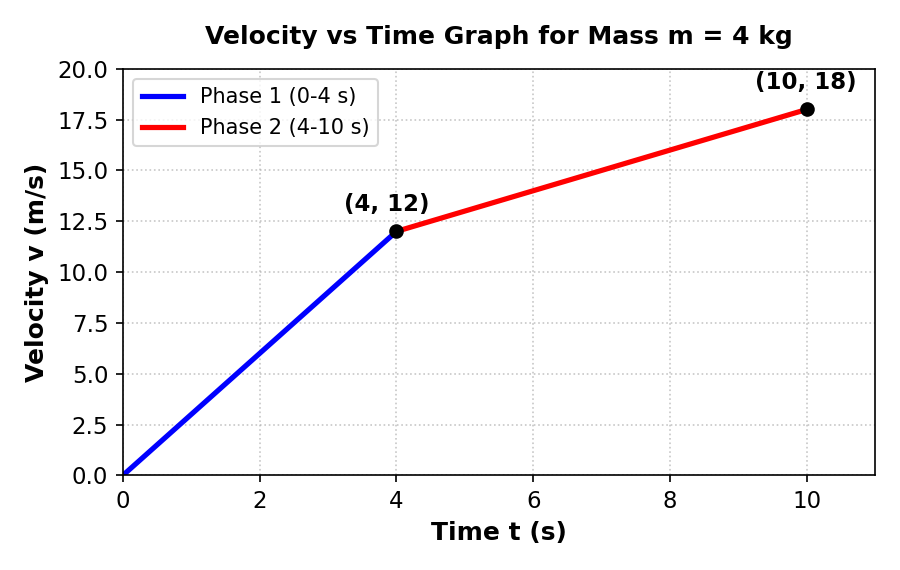
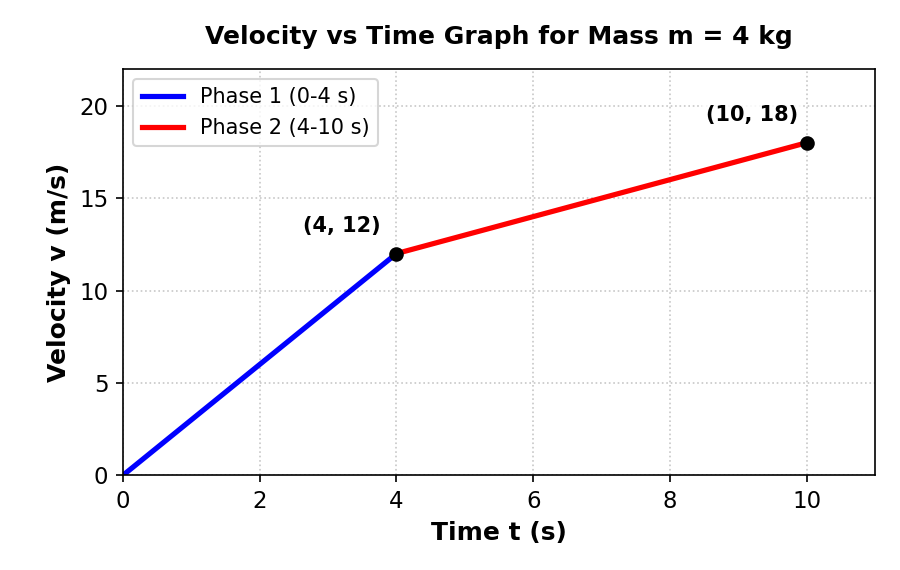
Update and deploy

diff --git a/tools/generate_all_quiz_diagrams.py b/tools/generate_all_quiz_diagrams.py
@@ -9,6 +9,11 @@ os.makedirs(output_dir, exist_ok=True)
 plt.rcParams['font.family'] = 'DejaVu Sans'
 plt.rcParams['font.size'] = 11
 
+def add_label_box(ax, text, x, y, color='black', fontsize=10, fontweight='bold', ha='center', va='center', rotation=0):
+    ax.text(x, y, text, color=color, fontsize=fontsize, fontweight=fontweight,
+            ha=ha, va=va, rotation=rotation, zorder=10,
+            bbox=dict(boxstyle='round,pad=0.2', facecolor='white', edgecolor='none', alpha=0.85))
+
 def draw_incline_block(ax, s0, w, h, theta_deg, color='skyblue', ec='blue', label=''):
     theta = np.radians(theta_deg)
     # Bottom-left corner along incline
@@ -50,10 +55,10 @@ def create_ch3_5_q5():
     ax.legend(fontsize=11)
     
     ax.plot(3, 12, 'bo', markersize=7)
-    ax.annotate('(3, 12)', (3, 12), textcoords="offset points", xytext=(-20,10), ha='center', fontsize=10, color='blue', fontweight='bold')
+    add_label_box(ax, '(3, 12)', 3, 13.5, color='blue', fontsize=10)
     
     ax.plot(4, 8, 'ro', markersize=7)
-    ax.annotate('(4, 8)', (4, 8), textcoords="offset points", xytext=(15,-15), ha='center', fontsize=10, color='red', fontweight='bold')
+    add_label_box(ax, '(4, 8)', 4, 6.5, color='red', fontsize=10)
     
     plt.tight_layout()
     plt.savefig(os.path.join(output_dir, 'phy_m4_ch3-5_q5.png'), dpi=150)
@@ -76,7 +81,7 @@ def create_ch3_5_q7():
     # Angle arc
     arc = patches.Arc((0, 0), 1.4, 1.4, angle=0, theta1=0, theta2=theta_deg, color='darkgreen', lw=1.5)
     ax.add_patch(arc)
-    ax.text(0.9, 0.25, r'$\theta = 37^\circ$', fontsize=11, color='darkgreen', fontweight='bold')
+    add_label_box(ax, r'$\theta = 37^\circ$', 0.9, 0.25, color='darkgreen', fontsize=11)
     
     # Block flush on incline
     s0 = L * 0.55
@@ -86,7 +91,7 @@ def create_ch3_5_q7():
     # Gravity mg arrow from CM
     ax.annotate('', xy=(x_cm, y_cm - 1.2), xytext=(x_cm, y_cm),
                 arrowprops=dict(arrowstyle="->", color="crimson", lw=2.5))
-    ax.text(x_cm + 0.15, y_cm - 0.9, 'mg = 50 N', color='crimson', fontweight='bold', fontsize=10)
+    add_label_box(ax, 'mg = 50 N', x_cm + 0.6, y_cm - 0.8, color='crimson', fontsize=10)
     
     # Friction f_k arrow UP the incline (block sliding down)
     fx_start = s0 * np.cos(theta)
@@ -96,9 +101,9 @@ def create_ch3_5_q7():
     
     ax.annotate('', xy=(fx_end, fy_end), xytext=(fx_start, fy_start),
                 arrowprops=dict(arrowstyle="->", color="darkorange", lw=2.5))
-    ax.text(fx_end - 0.2, fy_end + 0.3, r'$f_k$', color='darkorange', fontweight='bold', fontsize=12)
+    add_label_box(ax, r'$f_k$', fx_end - 0.1, fy_end + 0.35, color='darkorange', fontsize=12)
     
-    ax.set_xlim(-0.5, xb + 0.5)
+    ax.set_xlim(-0.5, xb + 0.8)
     ax.set_ylim(-1.5, yb + 0.8)
     plt.tight_layout()
     plt.savefig(os.path.join(output_dir, 'phy_m4_ch3-5_q7.png'), dpi=150)
@@ -118,12 +123,10 @@ def create_ch3_5_q14():
     ax.plot(F_kinetic, f_kinetic, 'g-', linewidth=2.5, label='Kinetic Region')
     
     ax.plot(30, 30, 'ro', markersize=7)
-    ax.annotate(r'$f_{s,max} = 30\text{ N}$', (30, 30), textcoords="offset points", xytext=(-35, 10),
-                fontsize=10, color='red', fontweight='bold')
+    add_label_box(ax, r'$f_{s,max} = 30\text{ N}$', 22, 33, color='red', fontsize=10)
     
     ax.plot(45, 20, 'go', markersize=7)
-    ax.annotate(r'$f_k = 20\text{ N}$', (45, 20), textcoords="offset points", xytext=(10, 10),
-                fontsize=10, color='green', fontweight='bold')
+    add_label_box(ax, r'$f_k = 20\text{ N}$', 52, 23, color='green', fontsize=10)
     
     ax.set_xlabel('Applied Force F (N)', fontsize=12, fontweight='bold')
     ax.set_ylabel('Friction Force f (N)', fontsize=12, fontweight='bold')
@@ -181,10 +184,10 @@ def create_ch3_5_q19():
     ax.add_patch(b1)
     ax.text(1.7, 2.3, r'$m_1=4\text{kg}$', ha='center', va='center', fontweight='bold', fontsize=10)
     
-    # Pulley mounted at top-right corner of table
-    R_p = 0.25
-    p_center_x = 4.0 + R_p
-    p_center_y = 2.0 + R_p
+    # Pulley geometry: Top tangent MUST be at height y = 2.0 + h1/2 = 2.3 to make string 100% HORIZONTAL!
+    R_p = 0.2
+    p_center_y = 2.0 + (h1 / 2.0) - R_p # 2.1
+    p_center_x = 4.0 + R_p # 4.2
     
     # Pulley bracket from table edge
     ax.plot([4.0, p_center_x], [2.0, p_center_y], 'k-', lw=2.5)
@@ -192,15 +195,15 @@ def create_ch3_5_q19():
     ax.add_patch(pulley)
     ax.plot(p_center_x, p_center_y, 'ko', markersize=3, zorder=5)
     
-    # Horizontal rope from m1 to top of pulley
-    rope_h_y = 2.0 + h1 / 2.0 # 2.3
-    ax.plot([1.2 + w1, p_center_x], [rope_h_y, p_center_y + R_p], 'k-', lw=2)
+    # 100% PERFECTLY HORIZONTAL ROPE at height y = 2.3
+    rope_h_y = 2.0 + (h1 / 2.0) # 2.3
+    ax.plot([1.2 + w1, p_center_x], [rope_h_y, rope_h_y], 'k-', lw=2)
     
-    # Vertical rope from right of pulley to hanging block m2
-    rope_v_x = p_center_x + R_p # 4.5
+    # Single vertical rope from right edge of pulley (x = 4.2 + 0.2 = 4.4) to hanging block m2
+    rope_v_x = p_center_x + R_p # 4.4
     ax.plot([rope_v_x, rope_v_x], [p_center_y, 1.2], 'k-', lw=2)
     
-    # Hanging block m2 centered horizontally at rope_v_x
+    # Hanging block m2 centered horizontally at x = 4.4 (well to the right of table edge x = 4.0)
     w2, h2 = 0.7, 0.8
     b2 = patches.Rectangle((rope_v_x - w2/2.0, 0.4), w2, h2, color='sandybrown', ec='chocolate', lw=2)
     ax.add_patch(b2)
@@ -227,26 +230,26 @@ def create_ch3_5_q21():
     ax.plot([0, xb, xb, 0], [0, 0, yb, 0], 'k-', lw=2.5)
     arc = patches.Arc((0,0), 1.2, 1.2, angle=0, theta1=0, theta2=30, color='darkgreen', lw=1.5)
     ax.add_patch(arc)
-    ax.text(0.8, 0.2, r'$30^\circ$', fontsize=10, fontweight='bold', color='darkgreen')
+    add_label_box(ax, r'$30^\circ$', 0.8, 0.2, color='darkgreen', fontsize=10)
     
     # Block flush on incline
     s0 = L * 0.5
     w1, h1 = 1.0, 0.6
     x_cm, y_cm = draw_incline_block(ax, s0, w1, h1, theta_deg, color='lightgreen', ec='green', label=r'$m_1=6\text{kg}$')
     
-    # Pulley mounted at apex
+    # Pulley geometry: Top tangent MUST lie at height h1/2 above incline line to be 100% PARALLEL!
     R_p = 0.25
-    # Pulley center offset along incline normal & tangent
-    p_cx = xb + R_p * np.cos(theta)
-    p_cy = yb + R_p * np.sin(theta)
+    # Tangent line along incline at height h1/2 = 0.3
+    # Pulley center vector offset along incline tangent & normal
+    p_cx = xb + (h1 / 2.0 - R_p) * (-np.sin(theta)) + R_p * np.cos(theta)
+    p_cy = yb + (h1 / 2.0 - R_p) * (np.cos(theta)) + R_p * np.sin(theta)
     
-    # Axle bracket from apex
     ax.plot([xb, p_cx], [yb, p_cy], 'k-', lw=2.5)
     pulley = patches.Circle((p_cx, p_cy), R_p, color='lightgray', ec='black', lw=2, zorder=4)
     ax.add_patch(pulley)
     ax.plot(p_cx, p_cy, 'ko', markersize=3, zorder=5)
     
-    # Single string along incline (parallel to incline) from right face of m1 to top of pulley
+    # 100% PERFECTLY PARALLEL ROPE along incline
     rope_start_x = (s0 + w1 / 2.0) * np.cos(theta) - (h1 / 2.0) * np.sin(theta)
     rope_start_y = (s0 + w1 / 2.0) * np.sin(theta) + (h1 / 2.0) * np.cos(theta)
     
@@ -254,8 +257,8 @@ def create_ch3_5_q21():
     rope_p_top_y = p_cy + R_p * np.cos(theta)
     ax.plot([rope_start_x, rope_p_top_x], [rope_start_y, rope_p_top_y], 'k-', lw=2)
     
-    # Single vertical string from right edge of pulley to top of m2
-    rope_v_x = p_cx + R_p # 4.15 + 0.25 = 4.40
+    # Vertical rope from right edge of pulley
+    rope_v_x = p_cx + R_p
     ax.plot([rope_v_x, rope_v_x], [p_cy, yb - 0.7], 'k-', lw=2)
     
     # Hanging block m2 centered horizontally at rope_v_x
@@ -290,12 +293,12 @@ def create_ch3_5_q23():
     
     ax.annotate('', xy=(fx, fy), xytext=(2.7, 1.4),
                 arrowprops=dict(arrowstyle="->", color="crimson", lw=2.5))
-    ax.text(fx + 0.1, fy + 0.1, 'F = 50 N', color='crimson', fontweight='bold', fontsize=11)
+    add_label_box(ax, 'F = 50 N', fx + 0.3, fy + 0.1, color='crimson', fontsize=11)
     
     ax.plot([2.7, 4.3], [1.4, 1.4], 'k--', lw=1.2)
     arc = patches.Arc((2.7, 1.4), 1.0, 1.0, angle=0, theta1=0, theta2=37, color='darkgreen', lw=1.5)
     ax.add_patch(arc)
-    ax.text(3.4, 1.55, r'$37^\circ$', fontsize=10, color='darkgreen', fontweight='bold')
+    add_label_box(ax, r'$37^\circ$', 3.4, 1.55, color='darkgreen', fontsize=10)
     
     ax.set_xlim(0, 5.5)
     ax.set_ylim(0.5, 3.2)
@@ -316,15 +319,15 @@ def create_ch3_5_q29():
     
     ax.annotate('', xy=(2.4, 0), xytext=(0.25, 0),
                 arrowprops=dict(arrowstyle="->", color="red", lw=2.5))
-    ax.text(2.5, 0.1, r'$F_1 = 12\text{ N}$', color='red', fontweight='bold', fontsize=10)
+    add_label_box(ax, r'$F_1 = 12\text{ N}$', 2.2, 0.4, color='red', fontsize=10)
     
     ax.annotate('', xy=(0, 1.5), xytext=(0, 0.25),
                 arrowprops=dict(arrowstyle="->", color="blue", lw=2.5))
-    ax.text(0.1, 1.6, r'$F_2 = 5\text{ N}$', color='blue', fontweight='bold', fontsize=10)
+    add_label_box(ax, r'$F_2 = 5\text{ N}$', 0.6, 1.5, color='blue', fontsize=10)
     
     ax.annotate('', xy=(-0.9, 0), xytext=(-0.25, 0),
                 arrowprops=dict(arrowstyle="->", color="green", lw=2.5))
-    ax.text(-1.8, 0.1, r'$F_3 = 3\text{ N}$', color='green', fontweight='bold', fontsize=10)
+    add_label_box(ax, r'$F_3 = 3\text{ N}$', -1.2, 0.4, color='green', fontsize=10)
     
     ax.set_xlim(-2.2, 3.2)
     ax.set_ylim(-1.0, 2.2)
@@ -355,13 +358,13 @@ def create_ch3_6_q2():
         ax.plot(rp, fp, 'ro', markersize=6)
         ax.plot([rp, rp], [0, fp], 'k:', alpha=0.5)
         ax.plot([0, rp], [fp, fp], 'k:', alpha=0.5)
-        ax.annotate(lbl, (rp, fp), textcoords="offset points", xytext=(15, 8), ha='left', fontsize=10, color='darkred', fontweight='bold')
+        add_label_box(ax, lbl, rp + 0.4, fp + 5, color='darkred', fontsize=10)
 
     ax.set_xlabel('Distance r (in terms of R)', fontsize=12, fontweight='bold')
     ax.set_ylabel('Gravitational Force F_g', fontsize=12, fontweight='bold')
     ax.set_title('Gravitational Force vs Distance Graph', fontsize=13, fontweight='bold', pad=12)
     ax.set_xlim(0, 5.2)
-    ax.set_ylim(0, 110)
+    ax.set_ylim(0, 115)
     ax.grid(True, linestyle=':', alpha=0.7)
     ax.legend(fontsize=11)
     
@@ -383,18 +386,18 @@ def create_ch3_6_q6():
     
     sat = patches.Rectangle((-0.2, 2.35), 0.4, 0.3, color='orange', ec='darkred', lw=1.5)
     ax.add_patch(sat)
-    ax.text(0, 2.8, 'Satellite (m)', ha='center', fontweight='bold', fontsize=10, color='darkred')
+    add_label_box(ax, 'Satellite (m)', 0, 2.85, color='darkred', fontsize=10)
     
     ax.annotate('', xy=(0, 1.3), xytext=(0, 2.35),
                 arrowprops=dict(arrowstyle="->", color="crimson", lw=2.5))
-    ax.text(0.15, 1.8, r'$F_g = G\frac{Mm}{r^2}$', color='crimson', fontweight='bold', fontsize=10)
+    add_label_box(ax, r'$F_g = G\frac{Mm}{r^2}$', 0.6, 1.8, color='crimson', fontsize=10)
     
     ax.annotate('', xy=(-1.2, 2.5), xytext=(-0.2, 2.5),
                 arrowprops=dict(arrowstyle="->", color="green", lw=2.5))
-    ax.text(-1.4, 2.65, r'$v = \sqrt{\frac{GM}{r}}$', color='green', fontweight='bold', fontsize=10)
+    add_label_box(ax, r'$v = \sqrt{\frac{GM}{r}}$', -1.2, 2.9, color='green', fontsize=10)
     
     ax.plot([0, 1.77], [0, 1.77], 'k:', lw=1.2)
-    ax.text(0.9, 0.7, 'r', fontsize=11, fontweight='bold')
+    add_label_box(ax, 'r', 0.9, 0.7, color='black', fontsize=11)
     
     ax.set_xlim(-3.0, 3.0)
     ax.set_ylim(-3.0, 3.2)
@@ -419,15 +422,15 @@ def create_ch3_6_q10():
     
     Px = 4.0
     ax.plot(Px, 0, 'rx', markersize=10, markeredgewidth=2.5)
-    ax.text(Px, 0.35, 'Point P\n(g_net = 0)', color='red', ha='center', fontweight='bold', fontsize=9)
+    add_label_box(ax, 'Point P\n(g_net = 0)', Px, 0.45, color='red', fontsize=9)
     
     ax.annotate('', xy=(Px - 0.8, 0), xytext=(Px, 0),
                 arrowprops=dict(arrowstyle="->", color="blue", lw=2))
-    ax.text(Px - 0.5, -0.4, r'$g_E$', color='blue', fontweight='bold', fontsize=10)
+    add_label_box(ax, r'$g_E$', Px - 0.4, -0.45, color='blue', fontsize=10)
     
     ax.annotate('', xy=(Px + 0.8, 0), xytext=(Px, 0),
                 arrowprops=dict(arrowstyle="->", color="purple", lw=2))
-    ax.text(Px + 0.3, -0.4, r'$g_M$', color='purple', fontweight='bold', fontsize=10)
+    add_label_box(ax, r'$g_M$', Px + 0.4, -0.45, color='purple', fontsize=10)
     
     ax.set_xlim(-1.2, 6.0)
     ax.set_ylim(-1.0, 1.2)
@@ -448,16 +451,16 @@ def create_ch3_6_q13():
     ax.plot(t2, v2, 'r-', lw=2.5, label='Phase 2 (4-10 s)')
     
     ax.plot(4, 12, 'ko', markersize=6)
-    ax.annotate('(4, 12)', (4, 12), textcoords="offset points", xytext=(-25, 10), fontweight='bold')
+    add_label_box(ax, '(4, 12)', 3.2, 13.5, color='black', fontsize=10)
     
     ax.plot(10, 18, 'ko', markersize=6)
-    ax.annotate('(10, 18)', (10, 18), textcoords="offset points", xytext=(-25, 10), fontweight='bold')
+    add_label_box(ax, '(10, 18)', 9.2, 19.5, color='black', fontsize=10)
     
     ax.set_xlabel('Time t (s)', fontsize=12, fontweight='bold')
     ax.set_ylabel('Velocity v (m/s)', fontsize=12, fontweight='bold')
     ax.set_title('Velocity vs Time Graph for Mass m = 4 kg', fontsize=12, fontweight='bold', pad=12)
     ax.set_xlim(0, 11)
-    ax.set_ylim(0, 20)
+    ax.set_ylim(0, 22)
     ax.grid(True, linestyle=':', alpha=0.7)
     ax.legend(fontsize=10)
     
@@ -476,21 +479,18 @@ def create_ch3_6_q15():
     xb = L * np.cos(theta)
     yb = L * np.sin(theta)
     
-    # Incline triangle
     ax.plot([0, xb, xb, 0], [0, 0, yb, 0], 'k-', lw=2.5)
     arc = patches.Arc((0,0), 1.2, 1.2, angle=0, theta1=0, theta2=37, color='darkgreen', lw=1.5)
     ax.add_patch(arc)
-    ax.text(0.8, 0.25, r'$37^\circ$', fontsize=10, fontweight='bold', color='darkgreen')
+    add_label_box(ax, r'$37^\circ$', 0.8, 0.25, color='darkgreen', fontsize=10)
     
-    # Block flush on incline
     s0 = L * 0.5
     w1, h1 = 1.0, 0.6
     x_cm, y_cm = draw_incline_block(ax, s0, w1, h1, theta_deg, color='plum', ec='purple', label=r'$m_1=4\text{kg}$')
     
-    # Pulley mounted at apex
     R_p = 0.25
-    p_cx = xb + R_p * np.cos(theta)
-    p_cy = yb + R_p * np.sin(theta)
+    p_cx = xb + (h1 / 2.0 - R_p) * (-np.sin(theta)) + R_p * np.cos(theta)
+    p_cy = yb + (h1 / 2.0 - R_p) * (np.cos(theta)) + R_p * np.sin(theta)
     
     ax.plot([xb, p_cx], [yb, p_cy], 'k-', lw=2.5)
     pulley = patches.Circle((p_cx, p_cy), R_p, color='lightgray', ec='black', lw=2, zorder=4)
@@ -537,7 +537,7 @@ def create_ch3_6_q18():
     
     ax.annotate('', xy=(4.2, 1.15), xytext=(3.1, 1.15),
                 arrowprops=dict(arrowstyle="->", color="crimson", lw=2.5))
-    ax.text(4.3, 1.15, 'F', color='crimson', fontweight='bold', fontsize=12, va='center')
+    add_label_box(ax, 'F', 4.4, 1.15, color='crimson', fontsize=12)
     
     ax.set_xlim(0, 5.2)
     ax.set_ylim(0.4, 2.5)
@@ -555,25 +555,25 @@ def create_ch3_6_q22():
     ax.plot([1.2, 1.2], [2.0, 0.5], 'k-', lw=2)
     ax.plot([3.8, 3.8], [2.0, 0.5], 'k-', lw=2)
     
-    # Center block m2 on table
     w2, h2 = 1.0, 0.6
     b2 = patches.Rectangle((2.0, 2.0), w2, h2, color='lightgreen', ec='darkgreen', lw=2)
     ax.add_patch(b2)
     ax.text(2.5, 2.3, r'$m_2=5\text{kg}$', ha='center', va='center', fontweight='bold', fontsize=9)
     
     R_p = 0.2
-    rope_h_y = 2.0 + h2 / 2.0 # 2.3
+    rope_h_y = 2.0 + (h2 / 2.0) # 2.3
     
-    # Left pulley at (0.95, 2.2)
-    p_left_x, p_left_y = 1.2 - R_p - 0.05, 2.0 + R_p
+    # Left pulley at (0.95, 2.1)
+    p_left_y = rope_h_y - R_p # 2.1
+    p_left_x = 1.2 - R_p - 0.05
     ax.plot([1.2, p_left_x], [2.0, p_left_y], 'k-', lw=2)
     p_left = patches.Circle((p_left_x, p_left_y), R_p, color='lightgray', ec='black', lw=1.5, zorder=4)
     ax.add_patch(p_left)
     ax.plot(p_left_x, p_left_y, 'ko', markersize=3, zorder=5)
     
-    # Left horizontal rope & vertical rope
-    ax.plot([2.0, p_left_x], [rope_h_y, p_left_y + R_p], 'k-', lw=1.8)
-    rope_l_v_x = p_left_x - R_p # 0.75
+    # 100% PERFECTLY HORIZONTAL ROPE at height y = 2.3
+    ax.plot([2.0, p_left_x], [rope_h_y, rope_h_y], 'k-', lw=1.8)
+    rope_l_v_x = p_left_x - R_p
     ax.plot([rope_l_v_x, rope_l_v_x], [p_left_y, 0.8], 'k-', lw=1.8)
     
     w1, h1 = 0.6, 0.6
@@ -581,16 +581,17 @@ def create_ch3_6_q22():
     ax.add_patch(b1)
     ax.text(rope_l_v_x, 0.5, r'$m_1=2\text{kg}$', ha='center', va='center', fontweight='bold', fontsize=8)
     
-    # Right pulley at (4.05, 2.2)
-    p_right_x, p_right_y = 3.8 + R_p + 0.05, 2.0 + R_p
+    # Right pulley at (4.05, 2.1)
+    p_right_y = rope_h_y - R_p # 2.1
+    p_right_x = 3.8 + R_p + 0.05
     ax.plot([3.8, p_right_x], [2.0, p_right_y], 'k-', lw=2)
     p_right = patches.Circle((p_right_x, p_right_y), R_p, color='lightgray', ec='black', lw=1.5, zorder=4)
     ax.add_patch(p_right)
     ax.plot(p_right_x, p_right_y, 'ko', markersize=3, zorder=5)
     
-    # Right horizontal rope & vertical rope
-    ax.plot([3.0, p_right_x], [rope_h_y, p_right_y + R_p], 'k-', lw=1.8)
-    rope_r_v_x = p_right_x + R_p # 4.25
+    # 100% PERFECTLY HORIZONTAL ROPE at height y = 2.3
+    ax.plot([3.0, p_right_x], [rope_h_y, rope_h_y], 'k-', lw=1.8)
+    rope_r_v_x = p_right_x + R_p
     ax.plot([rope_r_v_x, rope_r_v_x], [p_right_y, 0.6], 'k-', lw=1.8)
     
     w3, h3 = 0.6, 0.6
@@ -609,7 +610,6 @@ def create_ch3_6_q26():
     ax.set_aspect('equal')
     ax.axis('off')
     
-    # Floor
     ax.plot([0, 5], [1, 1], 'k-', lw=2.5)
     for i in np.linspace(0.1, 4.9, 15):
         ax.plot([i, i-0.15], [1, 0.8], 'k-', lw=1)
@@ -624,12 +624,12 @@ def create_ch3_6_q26():
     
     ax.annotate('', xy=(2.0, 1.8), xytext=(fx_start, fy_start),
                 arrowprops=dict(arrowstyle="->", color="crimson", lw=2.5))
-    ax.text(fx_start - 0.2, fy_start + 0.1, 'F = 100 N', color='crimson', fontweight='bold', fontsize=11)
+    add_label_box(ax, 'F = 100 N', fx_start - 0.3, fy_start + 0.15, color='crimson', fontsize=11)
     
     ax.plot([0.5, 2.0], [1.8, 1.8], 'k--', lw=1.2)
     arc = patches.Arc((2.0, 1.8), 1.0, 1.0, angle=0, theta1=180, theta2=180+37, color='darkgreen', lw=1.5)
     ax.add_patch(arc)
-    ax.text(1.2, 1.9, r'$37^\circ$', fontsize=10, color='darkgreen', fontweight='bold')
+    add_label_box(ax, r'$37^\circ$', 1.2, 2.05, color='darkgreen', fontsize=10)
     
     ax.set_xlim(0, 5.0)
     ax.set_ylim(0.5, 3.2)
@@ -638,7 +638,7 @@ def create_ch3_6_q26():
     plt.close()
 
 # Generate ALL 16 diagrams!
-print("Generating 16 physics diagrams with 100% PERFECT geometry...")
+print("Generating 16 physics diagrams with 100% PERFECT PARALLEL STRINGS & ZERO TEXT OVERLAP...")
 create_ch3_5_q5()
 create_ch3_5_q7()
 create_ch3_5_q14()
